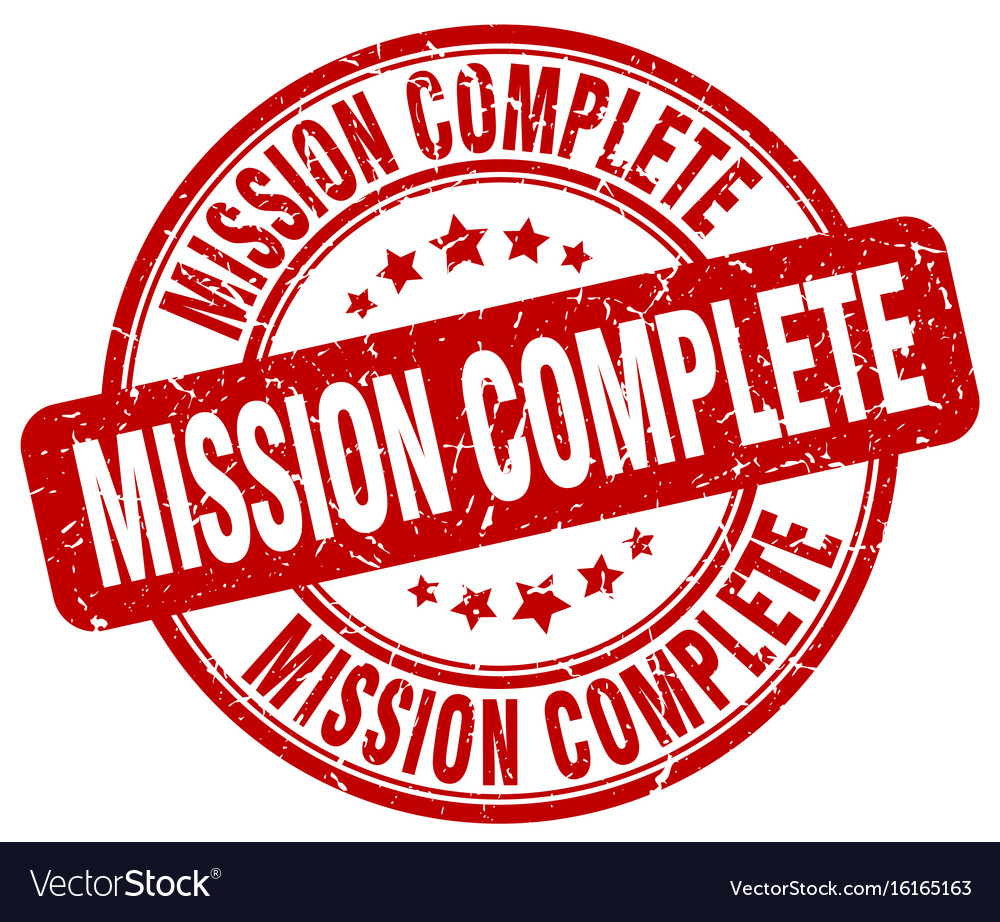
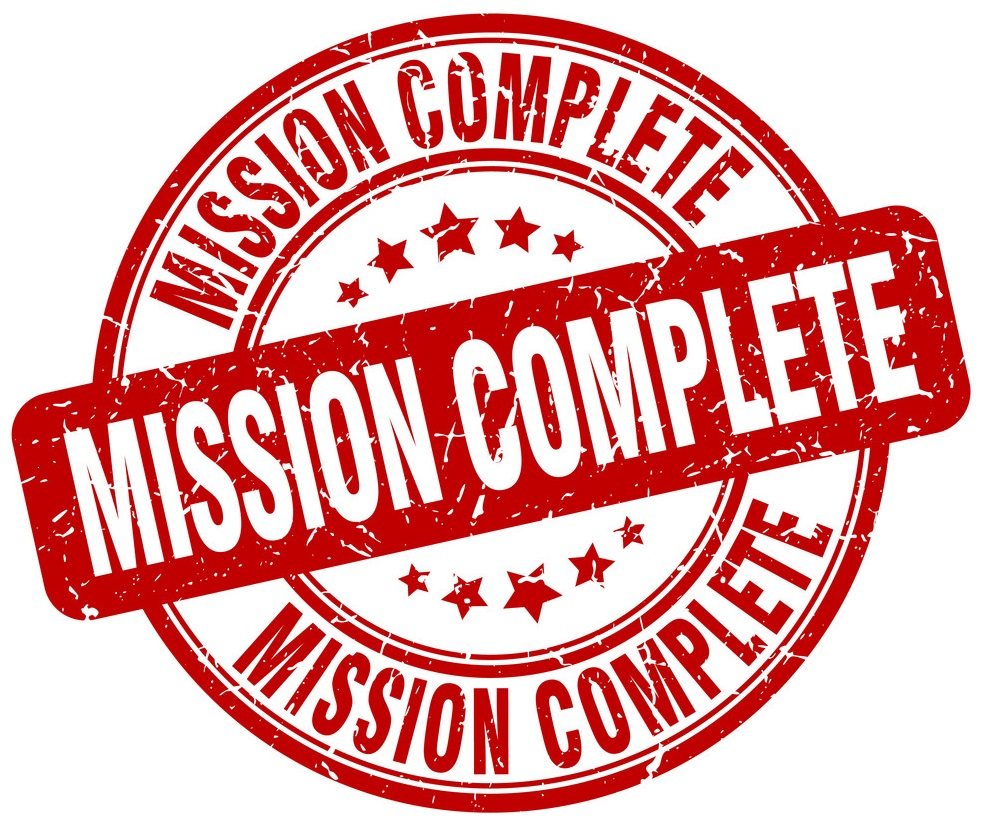
complete

diff --git a/index.html b/index.html
@@ -29,7 +29,8 @@
         <section>
           <h1>today's tasks</h1>
           <hr style="opacity: 0.5" />
-          <div class="items"></div>
+          <div class="items">
+          </div>
           <footer>
             <span>**single click to mark complete</span>
             <span>**double click to remove form list</span>
@@ -50,10 +51,11 @@
         $("input").val("");
         $(".empty").css("display", "none");
         $(".content").css("display", "block");
-        $(".items").append(`<div class="item"  ondblclick="removeitem(this)">
+        $(".items").append(`<div onclick="completeTask(this)"  class="item"  ondblclick="removeitem(this)">
               <p>
                 ${text}
               </p>
+              <img src="1698287520399.jpg" alt="complete">
             </div>`);
       });
       $("#input").keyup(function (event) {
@@ -62,12 +64,16 @@
           $("input").val("");
           $(".empty").css("display", "none");
           $(".content").css("display", "block");
-          $(".items").append(`<div   class="item"  ondblclick="removeitem(this)">
+          $(".items").append(`<div onclick="completeTask(this)" class="item" ondblclick="removeitem(this)">
               <p>
                 ${text}
               </p>
+              <img src="1698287520399.jpg" alt="complete">
             </div>`);
         }
+      });
+      $('.item').click(function(){
+        $('.item').css('border','1px solid')
       });
       $('#clear').click(function(){
         $(".items").html("");
@@ -76,7 +82,11 @@
       });
       function removeitem(element){
         element.remove();
-      }
+      };
+      function completeTask(ele){
+        ele.querySelector('p').style.textDecoration='line-through';
+        ele.querySelector('img').style.display='block';
+      };
     </script>
   </body>
 </html>

diff --git a/Css/style.css b/Css/style.css
@@ -120,6 +120,10 @@ section{
     width: 550px;
     text-align: start;
     border-top: 8px solid #28f7d4;
+    display: flex;
+    justify-content: space-between;
+    align-items: center;
+
 }
 .items > .item:hover{
     border-top: 8px solid #ec5f0d;
@@ -131,6 +135,11 @@ section{
     .items > .item{
         width: 100%;
     }
+}
+.item img{
+    width: 40px;
+    opacity: 0.7;
+    display: none;
 }
 footer{
     margin-top: 50px;
